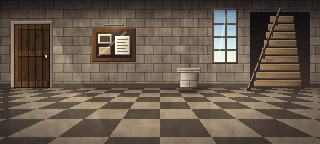
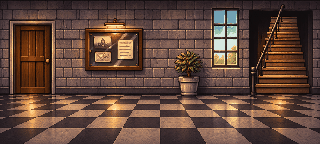
Turmeingang 1986: Hintergrund des Nutzers, neue Klickflächen, Büste mit Sockel

diff --git a/src/game/rooms/turmeingang.ts b/src/game/rooms/turmeingang.ts
@@ -14,34 +14,58 @@ export const turmeingang: RoomDef = {
           {
             id: 'tuer',
             name: 'hotspot.tuer_platz',
-            area: rect(12, 22, 40, 66),
+            area: rect(10, 21, 44, 73),
             walkTo: [32, 96],
             face: 'hinten',
             comments: { schauan: 'say.k1.eingang_tuer' },
             exit: { room: 'rathausplatz', at: [160, 102], face: 'vorne' },
           },
           {
+            id: 'wandlampe',
+            name: 'hotspot.wandlampe',
+            area: rect(104, 17, 22, 10),
+            walkTo: [114, 96],
+            face: 'hinten',
+            comments: { schauan: 'say.k1.eingang_lampe' },
+          },
+          {
             id: 'schaukasten',
             name: 'hotspot.schaukasten',
-            area: rect(92, 28, 44, 34),
+            area: rect(85, 28, 58, 43),
             walkTo: [114, 96],
             face: 'hinten',
             comments: { schauan: 'say.k1.eingang_schaukasten', oeffne: 'say.k1.eingang_schaukasten_oeffne' },
           },
           {
+            id: 'pflanze',
+            name: 'hotspot.pflanze',
+            area: rect(175, 50, 28, 46),
+            walkTo: [189, 98],
+            face: 'hinten',
+            comments: { schauan: 'say.k1.eingang_pflanze' },
+          },
+          {
+            id: 'fenster',
+            name: 'hotspot.fenster',
+            area: rect(211, 8, 28, 60),
+            walkTo: [225, 96],
+            face: 'hinten',
+            comments: { schauan: 'say.k1.eingang_fenster' },
+          },
+          {
             id: 'bueste',
             name: 'hotspot.bueste',
-            area: rect(176, 50, 26, 38),
-            walkTo: [190, 96],
+            area: rect(146, 58, 26, 38),
+            walkTo: [159, 98],
             face: 'hinten',
             visible: (s) => s.timeline.tannenburg,
-            sprite: { key: 'backgrounds/sprites/bueste.png', x: 176, y: 50 },
+            sprite: { key: 'backgrounds/sprites/bueste.png', x: 146, y: 58 },
             comments: { schauan: 'say.k1.eingang_bueste', nimm: 'say.k1.eingang_bueste_nimm' },
           },
           {
             id: 'treppe',
             name: 'hotspot.treppe',
-            area: rect(250, 12, 60, 76),
+            area: rect(250, 4, 62, 92),
             walkTo: [278, 96],
             face: 'hinten',
             comments: { schauan: 'say.k1.eingang_treppe' },

diff --git a/tools/paint/sprites.ts b/tools/paint/sprites.ts
@@ -27,6 +27,15 @@ export function bueste(): Picture {
   p.area(15, 7, 2, 1, () => hex('#5a3e14'));
   p.area(12, 11, 3, 1, () => hex('#7a5a20'));
   p.glow(10, 5, 5, hex('#fff4c0'), 0.2);
+  // Sockel aus dunklem Stein: Deckplatte, Schaft mit Goldschild, Fuß
+  const stein = (x: number, l: number): RGB => mix(hex('#8a7a6c'), hex('#3a302a'), (x - 3) / 20 + l);
+  p.area(4, 18, 18, 3, (x) => stein(x, -0.15));
+  p.area(4, 18, 18, 1, (x) => mix(hex('#c8b8a4'), hex('#6a5a4c'), (x - 4) / 18));
+  p.area(6, 21, 14, 13, (x, y) => shade(stein(x, 0), 1 + fbm(x / 2, y / 2, 2, 77) * 0.08));
+  p.area(9, 24, 8, 4, (x) => mix(hex('#ffe08a'), hex('#8a6420'), (x - 9) / 8));
+  p.area(10, 25, 6, 1, () => hex('#6a4a18'));
+  p.area(3, 34, 20, 4, (x) => stein(x, -0.08));
+  p.area(3, 34, 20, 1, (x) => mix(hex('#b0a090'), hex('#5a4a3c'), (x - 3) / 20));
   return p;
 }
 

diff --git a/tools/paint/build.ts b/tools/paint/build.ts
@@ -107,7 +107,7 @@ const UI: Record<string, () => Picture> = {
 };
 
 /** Vom Nutzer gezeichnete Bilder: Sie werden nie übermalt, auch nicht mit --force oder Namensfilter. */
-const EIGENE_BILDER = new Set(['titel', 'martys_zimmer_1986', 'kueche_1986', 'arbeitszimmer_1986', 'vorgarten_1986', 'vorgarten_1986_tannenburg', 'veranda_1986', 'docs_labor_1986', 'stadtplan_1986', 'stadtplan_1986_tannenburg', 'rathausplatz_1986', 'rathausplatz_1986_tannenburg']);
+const EIGENE_BILDER = new Set(['titel', 'martys_zimmer_1986', 'kueche_1986', 'arbeitszimmer_1986', 'vorgarten_1986', 'vorgarten_1986_tannenburg', 'veranda_1986', 'docs_labor_1986', 'stadtplan_1986', 'stadtplan_1986_tannenburg', 'rathausplatz_1986', 'rathausplatz_1986_tannenburg', 'turmeingang_1986']);
 
 const args = process.argv.slice(2);
 const force = args.includes('--force');
